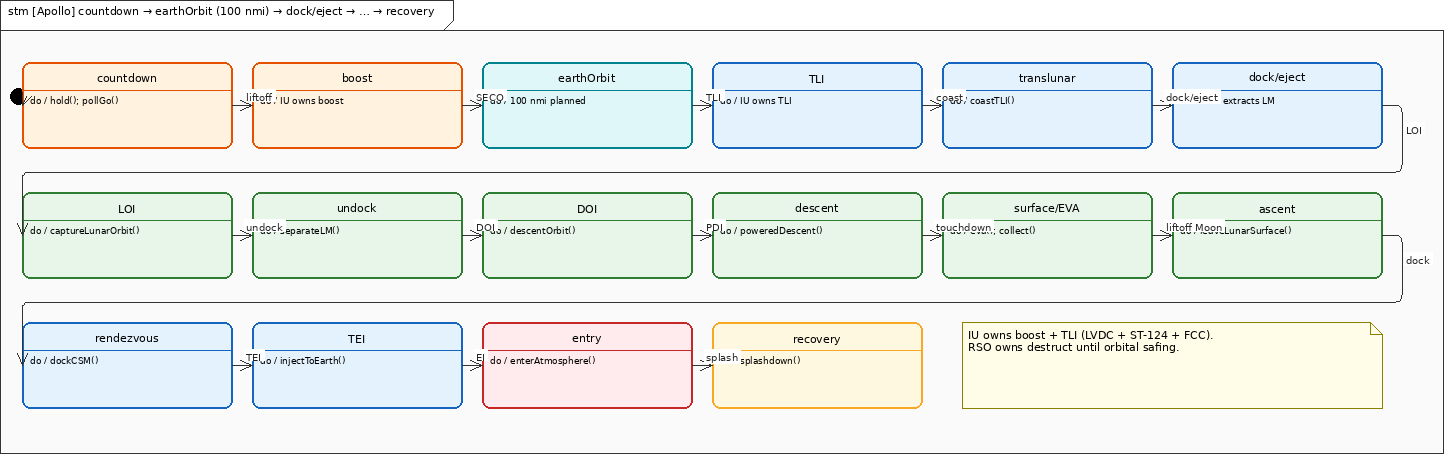
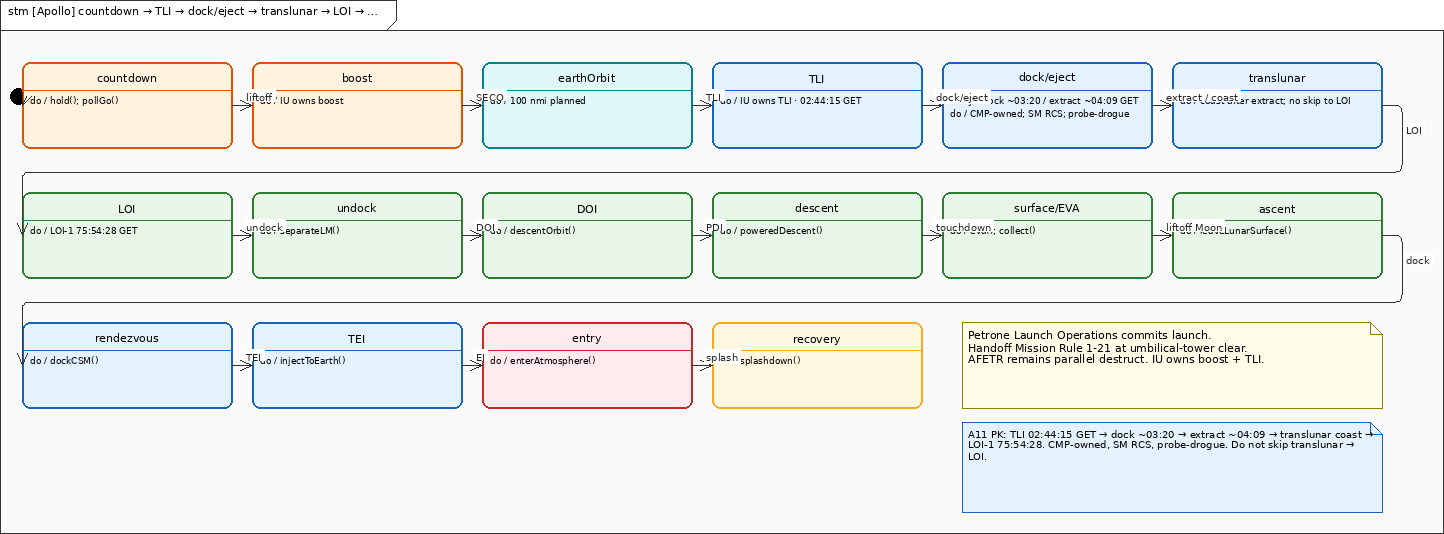
Render Apollo mission STM with dockEject before translunar coast
Show TLI → dock/eject → translunar → LOI and the A11 Press Kit TD&E note.

diff --git a/skills/author-model/SKILL.md b/skills/author-model/SKILL.md
@@ -21,7 +21,7 @@ Read [msml-specification.md](../../msml-specification.md) before inventing field
 | Example | Why it exists |
 | --- | --- |
 | [projects/e-bike/e-bike-model.msml](../../projects/e-bike/e-bike-model.msml) | Publish hero. Frozen `ElectricBike::` names. |
-| [projects/apollo/apollo-model.msml](../../projects/apollo/apollo-model.msml) | Full system + subsystem. Apollo 11 / Block II, AS-506. Sourced vehicle/AGC/electrical/AGS/docking/RCS (SM/LM 100 lbf, CM 93 lbf). UNKNOWN: official CSM lunar Δv, SPS loaded lb, AGS program name, loaded SM/CM RCS propellant. |
+| [projects/apollo/apollo-model.msml](../../projects/apollo/apollo-model.msml) | Full system + subsystem. Apollo 11 / Block II, AS-506. Sourced vehicle/AGC/electrical/AGS/docking/RCS (SM/LM 100 lbf, CM 93 lbf). Mission STM keeps `dockEject` (CMP-owned, SM RCS, probe-drogue) and translunar → LOI (A11 PK times). UNKNOWN: official CSM lunar Δv, SPS loaded lb, AGS program name, loaded SM/CM RCS propellant. |
 | [projects/appliances/toaster/toaster-model.msml](../../projects/appliances/toaster/toaster-model.msml) | Coverage canary for all twelve views. |
 
 Copy *patterns* from those files. Do not remap ElectricBike ids.
